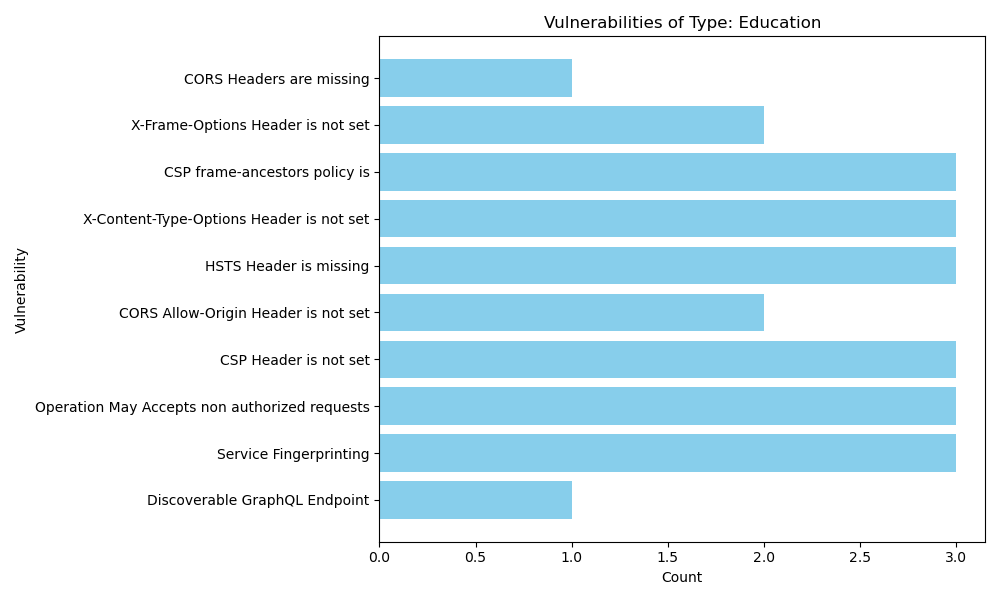
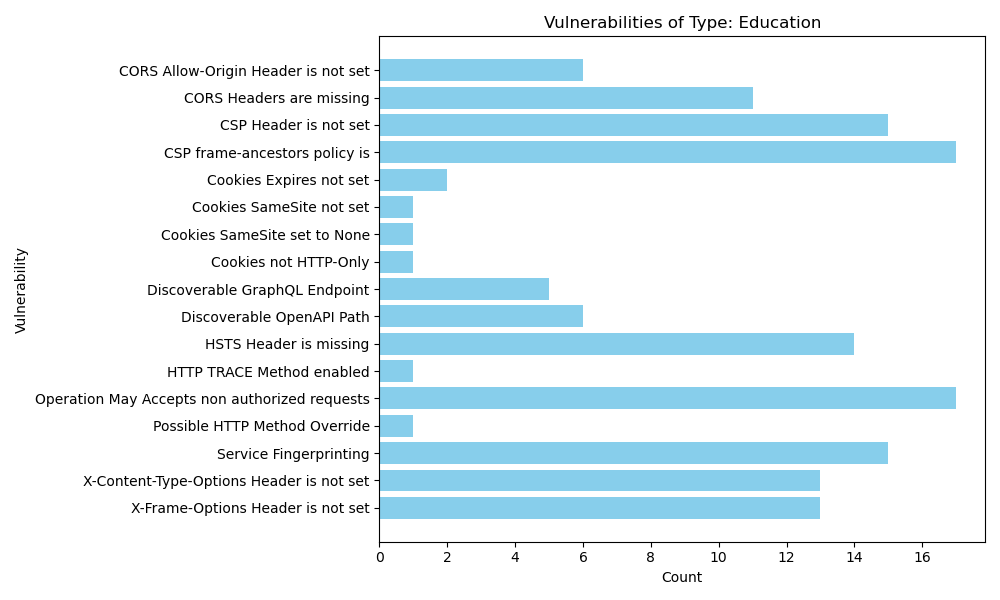
updates

diff --git a/vulnapi_scripts/plot.py b/vulnapi_scripts/plot.py
@@ -23,6 +23,7 @@ for url, vulnerabilities_data in data.items():
     # Add this vulnerability to the corresponding type
     vulnerabilities_by_type[vuln_type].extend(vulnerabilities_data["Info"])
     vulnerabilities_by_type[vuln_type].extend(vulnerabilities_data["Medium"])
+    vulnerabilities_by_type[vuln_type] = sorted(vulnerabilities_by_type[vuln_type], reverse=True)
 
 for type in vulnerabilities_by_type.keys():
     vulnerability_counts = Counter(vulnerabilities_by_type[type])
